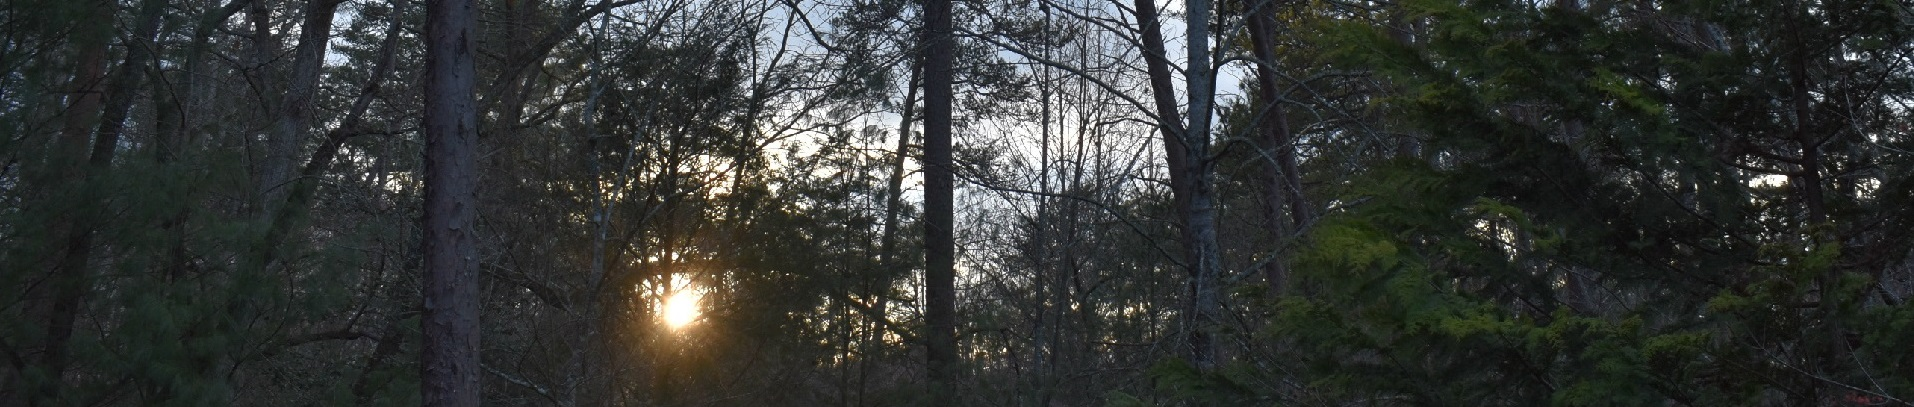
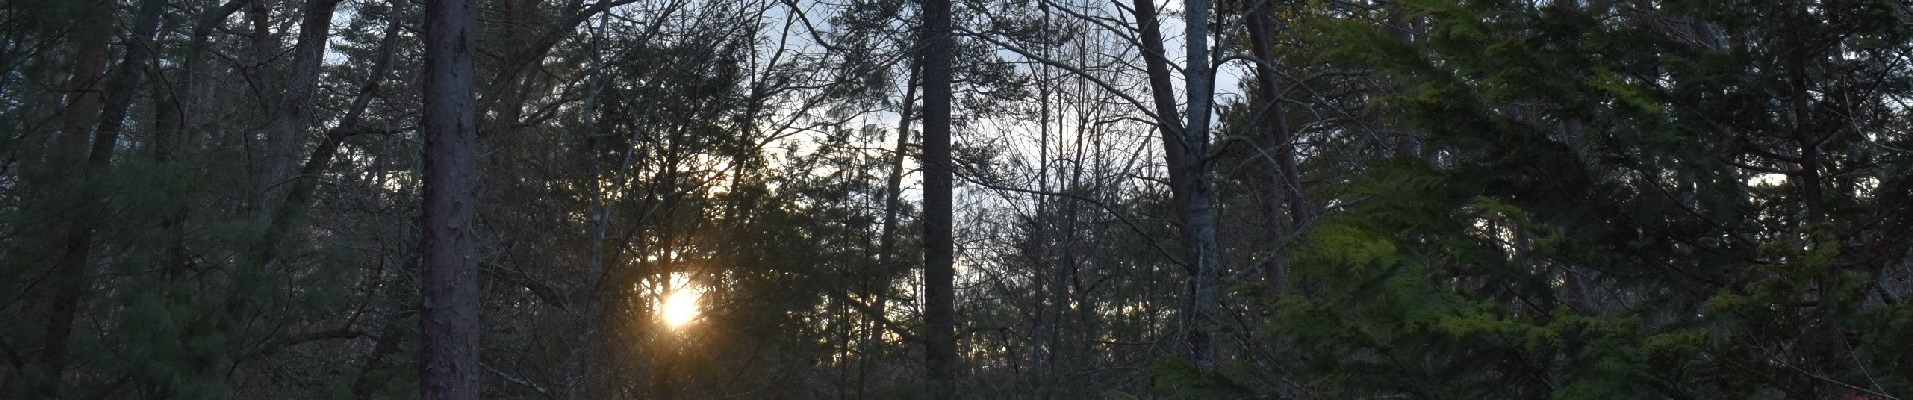
highspeed img
converted all img to .webp format

diff --git a/index.html b/index.html
@@ -44,16 +44,16 @@
 		</ol>
 		<div class="carousel-inner" role="listbox">
 			<div class="item active">
-			<img src="img/cabinTreesSunLong.jpg">
+			<img src="img/highspeed/cabinTreesSunLong.webp">
 			<div class="carousel-caption">
 				<!--blank-->
 			</div>
 			</div> <!--End Active-->
 			<div class="item"> 
-				<img src="img/alleyLongHead.jpg">
+				<img src="img/highspeed/alleyLongHead.webp">
 			</div>
 			<div class="item"> 
-				<img src="img/RagtagV1shoot.jpg">
+				<img src="img/highspeed/RagtagV1shoot.webp">
 			</div>			
 		</div>
 		<!---Start Slider Controls-->
@@ -73,19 +73,19 @@
 		<br>
 		<div class="row">
 			<div class="col-sm-4">
-				<img src="img/CoverArt/numb-cover.png" id="icon">
+				<img src="img/highspeed/numb-cover.webp" id="icon">
 				<br>
 				<a href="https://song.link/us/i/1463723485" class="btn btn-outline-warning" role="button" aria-pressed="true">
 					Numb
 				</a>
 			</div>						
 			<div class="col-sm-4">
-				<img src="img/CoverArt/all-love-cover.png" id="icon">
+				<img src="img/highspeed/all-love-cover.webp" id="icon">
 				<br>
 				<a href="https://song.link/us/i/1460378666" class="btn btn-outline-warning" role="button" aria-pressed="true">Fly Away</a>
 			</div>
 			<div class="col-sm-4">
-				<img src="img/CoverArt/daybreaks-cover.png" id="icon">
+				<img src="img/highspeed/daybreaks-cover.webp" id="icon">
 				<br>
 				<a href="https://song.link/us/i/1462598294" class="btn btn-outline-warning" role="button" aria-pressed="true">
 					Day Breaks
